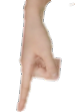
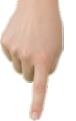
feat(rig-foto): manos de piel generadas con Gemini (relajada, abierta, puno, senalar)
Fotos de manos con el mismo tono del cuerpo (scripts/manos-generar.js), elegidas a ojo en
assets/kit/manos/. Se quita el fondo, se corta el antebrazo en la muneca y se escalan a la
manga. Sustituyen a las manos recortadas del cuerpo y a los guantes.

diff --git a/scripts/kit-foto-rig.js b/scripts/kit-foto-rig.js
@@ -72,61 +72,21 @@ async function cabeza() {
   return { cw, ch, pivoteY: NECK_Y * S / ch, chinY: CHIN_Y * S, neckY: NECK_Y * S, cara: { cx: 432 * S, cy: 408 * S, w: 610 * S, h: 663 * S } }; // caja de la cara medida sobre esta foto
 }
 let MUNECA = null, MANOS = {};
-// Manos como piezas aparte, de PIEL, sacadas de las mismas fotos del kit (mismo tono que el cuerpo): se aísla la piel (sin el puño rojo ni la manga), se tapan los
-// huecos que dejó el recorte, se gira para que la muñeca quede ARRIBA y los dedos abajo, y se escala a un tamaño común. La muñeca se esconde bajo el puño al armar el rig.
-const esPiel = (r, g, b, a) => { if (a < 128) return false; const mx = Math.max(r, g, b), mn = Math.min(r, g, b), sat = (mx - mn) / (mx || 1); return r > 150 && g > 100 && b > 70 && r >= g && g >= b * 0.95 && r - b > 18 && sat > 0.1 && sat < 0.5; };
-// fuente: { archivo, región, punto de la muñeca (en la foto), ángulo (grados: gira la mano para que apunte hacia abajo), recorte de antebrazo (px), alto final }
-async function mano({ arch, reg, wr, ang, saltar = 0, alto = 100 }) {
-  const img = await loadImage(fs.readFileSync(arch)), { id } = pixeles(img), d = id.data, W = img.width, H = img.height, { x0, y0, x1, y1 } = reg;
-  const dentro = (x, y) => x >= x0 && x <= x1 && y >= y0 && y <= y1;
-  const sk = new Uint8Array(W * H), re = new Uint8Array(W * H);
-  for (let y = y0; y <= y1; y++) for (let x = x0; x <= x1; x++) { const i = (y * W + x) * 4; if (esPiel(d[i], d[i + 1], d[i + 2], d[i + 3])) sk[y * W + x] = 1; }
-  // cierre morfológico: localiza los huecos del recorte dentro de la mano para rellenarlos con el tono de la piel de alrededor
-  const dil = (a, rad) => { const o = new Uint8Array(W * H); for (let y = y0; y <= y1; y++) for (let x = x0; x <= x1; x++) { let v = 0; for (let j = -rad; j <= rad && !v; j++) for (let i2 = -rad; i2 <= rad; i2++) { if (dentro(x + i2, y + j) && a[(y + j) * W + x + i2]) { v = 1; break; } } o[y * W + x] = v; } return o; };
-  const ero = (a, rad) => { const o = new Uint8Array(W * H); for (let y = y0; y <= y1; y++) for (let x = x0; x <= x1; x++) { let v = 1; for (let j = -rad; j <= rad && v; j++) for (let i2 = -rad; i2 <= rad; i2++) { if (!dentro(x + i2, y + j) || !a[(y + j) * W + x + i2]) { v = 0; break; } } o[y * W + x] = v; } return o; };
-  const cerrado = ero(dil(sk, 5), 5), col = new Float32Array(W * H * 3);
-  for (let y = y0; y <= y1; y++) for (let x = x0; x <= x1; x++) if (sk[y * W + x]) { const i = (y * W + x) * 4, o = (y * W + x) * 3; col[o] = d[i]; col[o + 1] = d[i + 1]; col[o + 2] = d[i + 2]; re[y * W + x] = 1; }
-  for (let pasada = 0; pasada < 4; pasada++) {
-    const nuevo = [];
-    for (let y = y0; y <= y1; y++) for (let x = x0; x <= x1; x++) if (cerrado[y * W + x] && !re[y * W + x]) {
-      let r = 0, g = 0, b = 0, n = 0;
-      for (let j = -3; j <= 3; j++) for (let i2 = -3; i2 <= 3; i2++) if (dentro(x + i2, y + j) && re[(y + j) * W + x + i2]) { const o = ((y + j) * W + x + i2) * 3; r += col[o]; g += col[o + 1]; b += col[o + 2]; n++; }
-      if (n) nuevo.push([x, y, r / n, g / n, b / n]);
-    }
-    for (const [x, y, r, g, b] of nuevo) { re[y * W + x] = 1; const o = (y * W + x) * 3; col[o] = r; col[o + 1] = g; col[o + 2] = b; }
-  }
-  const t = createCanvas(W, H), tx = t.getContext('2d'), td = tx.createImageData(W, H);
-  for (let y = y0; y <= y1; y++) for (let x = x0; x <= x1; x++) if (re[y * W + x]) { const i = (y * W + x) * 4, o = (y * W + x) * 3; td.data[i] = col[o]; td.data[i + 1] = col[o + 1]; td.data[i + 2] = col[o + 2]; td.data[i + 3] = 255; }
-  tx.putImageData(td, 0, 0);
-  const G = 420, r = createCanvas(G, G), rx = r.getContext('2d'); rx.translate(G / 2, -saltar); rx.rotate(ang * Math.PI / 180); rx.translate(-wr.x, -wr.y); rx.drawImage(t, 0, 0);
-  const dd = rx.getImageData(0, 0, G, G).data; let a0 = G, a1 = 0, b0 = G, b1 = 0;
-  for (let y = 0; y < G; y++) for (let x = 0; x < G; x++) if (dd[(y * G + x) * 4 + 3] > 40) { if (x < a0) a0 = x; if (x > a1) a1 = x; if (y < b0) b0 = y; if (y > b1) b1 = y; }
-  const k = alto / (b1 - b0 + 1); let m0 = G, m1 = 0;
-  for (let y = b0; y < b0 + 3; y++) for (let x = a0; x <= a1; x++) if (dd[(y * G + x) * 4 + 3] > 40) { if (x < m0) m0 = x; if (x > m1) m1 = x; }
-  const ax = ((m0 + m1) / 2 - a0) * k, w = (a1 - a0 + 1) * k, h = (b1 - b0 + 1) * k, W2 = Math.ceil(2 * Math.max(ax, w - ax)), c = createCanvas(W2, Math.ceil(h)), cx = c.getContext('2d');
-  cx.drawImage(r, a0, b0, a1 - a0 + 1, b1 - b0 + 1, W2 / 2 - ax, 0, w, h);
-  return { c, w: W2, h: Math.ceil(h), muneca: (m1 - m0) * k };
-}
+// Manos como piezas aparte, de PIEL: fotos generadas con scripts/manos-generar.js (elegidas a ojo, en assets/kit/manos/), con la muñeca arriba y los dedos abajo.
+// Se quita el fondo verde, se corta el antebrazo sobrante a la altura de la muñeca (corte recto: queda escondido bajo el puño del uniforme) y se escala para que
+// la muñeca mida lo mismo que la manga del brazo.
+const { quitarFondo } = require('../lienzo/recorte');
+const MANOS_FOTO = { // corte = fracción de la altura (de la foto ya sin fondo) donde se corta el antebrazo, desde arriba
+  relajada: { corte: 0.34, muneca: 40 }, abierta: { corte: 0.33, muneca: 40 }, puno: { corte: 0.38, muneca: 40 }, senalar: { corte: 0.30, muneca: 40 },
+};
 async function manos(arm) {
-  const kit = n => path.join(KIT, n + '.png');
-  const fuentes = {
-    relajada: { arch: kit('cuerpo-bastonera'), reg: { x0: 0, y0: 394, x1: 98, y1: 478 }, wr: { x: 70, y: 397 }, ang: -47, alto: 96 },                       // mano en reposo (la del cuerpo base)
-    abierto: { arch: kit('cuerpo-bastonera-celebrar'), reg: { x0: 0, y0: 0, x1: 118, y1: 90 }, wr: { x: 100, y: 82 }, ang: -130, saltar: 28, alto: 104 },  // mano abierta, dedos separados
-    senalar: { arch: kit('cuerpo-bastonera-senalar'), reg: { x0: 0, y0: 38, x1: 119, y1: 100 }, wr: { x: 117, y: 60 }, ang: -84, saltar: 0, alto: 112 },    // mano señalando
-  };
-  for (const [nombre, f] of Object.entries(fuentes)) { const a = await mano(f); guardar(a.c, 'mano-' + nombre); MANOS[nombre] = { w: a.w, h: a.h, ax: a.w / 2 }; console.log('mano', nombre, a.w + 'x' + a.h, 'muneca', a.muneca.toFixed(0)); }
-  // puño: foto del kit (data-motor/kit/png/mano-puno.png), antebrazo hacia abajo; se gira 180° (muñeca arriba) y se iguala el tono al de las otras manos
-  {
-    const img = await loadImage(fs.readFileSync(path.join(__dirname, '..', 'data-motor', 'kit', 'png', 'mano-puno.png'))), W = img.width, H = Math.round(img.height * 0.62), t = createCanvas(W, H), tx = t.getContext('2d');
-    tx.translate(W / 2, H / 2); tx.rotate(Math.PI); tx.drawImage(img, 0, 0, W, H, -W / 2, -H / 2, W, H); // se descarta el borde roto de abajo; el antebrazo queda arriba
-    const k = 100 / H, w = W * k, h = H * k, W2 = Math.ceil(w), c = createCanvas(W2, Math.ceil(h)), cx = c.getContext('2d'); cx.drawImage(t, 0, 0, W, H, 0, 0, w, h);
-    const ref = await loadImage(path.join(SAL, 'mano-senalar.png')), rc = createCanvas(ref.width, ref.height), rcx = rc.getContext('2d'); rcx.drawImage(ref, 0, 0);
-    const rd = rcx.getImageData(0, 0, ref.width, ref.height).data, md = { r: 0, g: 0, b: 0, n: 0 }, pd = cx.getImageData(0, 0, W2, Math.ceil(h)), pp = pd.data, mp = { r: 0, g: 0, b: 0, n: 0 };
-    for (let i = 0; i < rd.length; i += 4) if (rd[i + 3] > 200) { md.r += rd[i]; md.g += rd[i + 1]; md.b += rd[i + 2]; md.n++; }
-    for (let i = 0; i < pp.length; i += 4) if (pp[i + 3] > 200) { mp.r += pp[i]; mp.g += pp[i + 1]; mp.b += pp[i + 2]; mp.n++; }
-    const gr = (md.r / md.n) / (mp.r / mp.n), gg = (md.g / md.n) / (mp.g / mp.n), gb = (md.b / md.n) / (mp.b / mp.n);
-    for (let i = 0; i < pp.length; i += 4) { pp[i] = Math.min(255, pp[i] * gr); pp[i + 1] = Math.min(255, pp[i + 1] * gg); pp[i + 2] = Math.min(255, pp[i + 2] * gb); }
-    cx.putImageData(pd, 0, 0); guardar(c, 'mano-puno'); MANOS.puno = { w: W2, h: Math.ceil(h), ax: W2 / 2 };
+  for (const [nombre, o] of Object.entries(MANOS_FOTO)) {
+    const c0 = await quitarFondo(path.join(KIT, 'manos', nombre + '.png'), { tol: 40, suave: 30, margen: 2, matiz: 28, sat: 0.18 }), W = c0.width, H = c0.height, y0 = Math.round(H * o.corte);
+    const d0 = c0.getContext('2d').getImageData(0, y0, W, 4).data; let m0 = W, m1 = 0;
+    for (let y = 0; y < 4; y++) for (let x = 0; x < W; x++) if (d0[(y * W + x) * 4 + 3] > 40) { if (x < m0) m0 = x; if (x > m1) m1 = x; }
+    const k = o.muneca / Math.max(8, m1 - m0), cx0 = (m0 + m1) / 2, ax = cx0 * k, w = W * k, h = (H - y0) * k, W2 = Math.ceil(2 * Math.max(ax, w - ax)), c = createCanvas(W2, Math.ceil(h)), cx = c.getContext('2d');
+    cx.imageSmoothingQuality = 'high'; cx.drawImage(c0, 0, y0, W, H - y0, W2 / 2 - ax, 0, w, h); guardar(c, 'mano-' + nombre); MANOS[nombre] = { w: W2, h: Math.ceil(h), ax: W2 / 2 };
+    console.log('mano', nombre, W2 + 'x' + Math.ceil(h));
   }
   // centro de la manga en la muñeca (en el lienzo del brazo)
   const bcv = await loadImage(path.join(SAL, 'brazo-abierto.png')), t = createCanvas(bcv.width, bcv.height), tx = t.getContext('2d'); tx.drawImage(bcv, 0, 0); const row = bcv.height - 6, bd = tx.getImageData(0, row, bcv.width, 1).data; let a0 = 1e9, a1 = -1; for (let x = 0; x < bcv.width; x++) if (bd[x * 4 + 3] > 200) { if (x < a0) a0 = x; if (x > a1) a1 = x; }

diff --git a/scripts/manos-generar.js b/scripts/manos-generar.js
@@ -1,0 +1,26 @@
+// Genera con Gemini manos de PIEL para el rig de fotos (misma piel que el cuerpo del kit): una mano por imagen, con la muñeca arriba cortada en horizontal
+// y los dedos hacia abajo, sobre fondo verde liso. Se revisan a ojo y luego scripts/kit-foto-rig.js las recorta y las arma.
+// Uso: node scripts/manos-generar.js [pose ...] [--n 2]   (poses: relajada abierta puno senalar)
+require('dotenv').config();
+const fs = require('fs'), path = require('path');
+const arg = (n, d) => { const i = process.argv.indexOf(n); return i >= 0 ? process.argv[i + 1] : d; };
+const N = Number(arg('--n', 2)), SALIDA = path.join(__dirname, '..', 'data-motor', 'kit', 'manos-crudo'), REF = path.join(__dirname, '..', 'assets', 'kit', 'cuerpo-bastonera-senalar.png');
+const BASE = 'Photograph of a single realistic adult female hand, the same skin tone as the reference image (light warm beige), natural unretouched skin with subtle knuckle creases and clean short natural nails. ONLY the hand and about 2 cm of wrist: the wrist is at the very TOP edge of the image and ends in a clean straight horizontal cut, no sleeve, no cuff, no jewelry, no watch. The fingers point straight DOWN in the image. The hand is perfectly sharp and fully inside the frame with space around it, evenly lit from the front, no cast shadows. Background: plain pure bright green (#00FF00) chroma-key, no text, no watermark.';
+const POSES = {
+  relajada: 'Relaxed hand, fingers together and slightly curled, thumb resting against the side, back of the hand facing the viewer.',
+  abierta: 'Open hand with all five fingers gently spread apart, palm facing the viewer.',
+  puno: 'Closed fist, back of the hand facing the viewer, thumb wrapped over the fingers.',
+  senalar: 'Pointing gesture: the index finger extended straight, the other three fingers curled into the palm, thumb tucked, back of the hand facing the viewer.',
+};
+async function una(pose, k) {
+  const partes = [{ inlineData: { mimeType: 'image/png', data: fs.readFileSync(REF).toString('base64') } }, { text: `${POSES[pose]} ${BASE}` }];
+  const cuerpo = { contents: [{ parts: partes }], generationConfig: { responseModalities: ['IMAGE'], imageConfig: { aspectRatio: '3:4' } } };
+  const r = await fetch(`https://generativelanguage.googleapis.com/v1beta/models/gemini-2.5-flash-image:generateContent?key=${process.env.GEMINI_API_KEY}`, { method: 'POST', headers: { 'Content-Type': 'application/json' }, body: JSON.stringify(cuerpo) });
+  const j = await r.json(), parte = (j.candidates?.[0]?.content?.parts || []).find(p => p.inlineData);
+  if (!parte) { console.log(pose, k, 'SIN IMAGEN', JSON.stringify(j).slice(0, 200)); return; }
+  fs.mkdirSync(SALIDA, { recursive: true }); fs.writeFileSync(path.join(SALIDA, `${pose}-${k}.png`), Buffer.from(parte.inlineData.data, 'base64')); console.log(pose, k, 'ok');
+}
+(async () => {
+  const pedidas = process.argv.slice(2).filter(a => POSES[a]), poses = pedidas.length ? pedidas : Object.keys(POSES);
+  await Promise.all(poses.flatMap(p => Array.from({ length: N }, (_, k) => una(p, k + 1).catch(e => console.log(p, k + 1, 'FALLO', e.message)))));
+})();

diff --git a/lienzo/titere-rig.js b/lienzo/titere-rig.js
@@ -31,7 +31,7 @@ const TRAJES_RIG = {
 // (el cuello queda detrás del cuello alto del uniforme) y la cara es la de la foto (sin expresiones dibujadas).
 const RIG_FOTO = path.join(__dirname, '..', 'assets', 'foto-rig');
 try { const m = JSON.parse(fs.readFileSync(path.join(RIG_FOTO, 'rig.json'), 'utf8')), pv = m.cabeza.pivoteY;
-  TRAJES_RIG['bastonera-foto'] = { dir: RIG_FOTO, piezas: ['cabeza', 'pelo', 'torso', 'hombros', 'brazo-abierto', 'piernas', 'mano-relajada', 'mano-abierto', 'mano-puno', 'mano-senalar'], torso: 'torso', falda: null, brazos: ['brazo-abierto', 'brazo-abierto'], piernas: true, piernasJuntas: true, cabezaAntes: true,
+  TRAJES_RIG['bastonera-foto'] = { dir: RIG_FOTO, piezas: ['cabeza', 'pelo', 'torso', 'hombros', 'brazo-abierto', 'piernas', 'mano-relajada', 'mano-abierta', 'mano-puno', 'mano-senalar'], torso: 'torso', falda: null, brazos: ['brazo-abierto', 'brazo-abierto'], piernas: true, piernasJuntas: true, cabezaAntes: true,
     cabeza: { x: 0, y: 26, px: 0.5, py: pv }, pelo: { x: 0, y: 26, px: 0.5, py: pv }, torsoPiv: { px: 0.5, py: 0 }, hombro: { x: m.CX - m.EJE_BRAZO, y: m.Y_HOMBRO + m.PIV_Y }, cadera: { x: 0, y: m.Y_CADERA - 2 }, pies: m.cuerpo.H, alto: m.cuerpo.H + m.cabeza.neckY + 4, long: m.largo, brazoPivY: m.PIV_Y, codoFrac: m.codoFrac, codoDuro: true, hombros: true, manoFotos: m.manos, muneca: m.muneca, caraFoto: m.cabeza.cara };
   } catch { /* sin piezas de foto: el traje no existe */ }
 const ANCLAS_FOTO = { ojoY: 0.01, ojoDx: 0.17, ojoR: 0.058, bocaY: 0.33, bocaAncho: 0.118, cejaY: -0.075 }; // medidas sobre la foto de la cabeza ficticia (misma que usa recortes.muneco)
@@ -148,7 +148,7 @@ function titereRig({ traje = 'bastonera', cx = 0.5, base = 0.9, alto = 0.5, esca
           ctx.save(); ctx.beginPath(); ctx.rect(0, 0, wB, cod + 2); ctx.clip(); ctx.drawImage(im, 0, 0); ctx.restore(); // brazo superior (con todo el hombro)
           ctx.save(); ctx.translate(wB / 2, cod); ctx.rotate(-c * GRAD); ctx.translate(-wB / 2, -cod);
           if (R.manoFotos) { // la mano es una pieza aparte: queda DETRÁS de la manga (la muñeca se esconde bajo el puño del uniforme) y gira en la muñeca
-            const nm = R.manoFotos[mano] ? mano : 'relajada', mi = img['mano-' + nm], mf = R.manoFotos[nm];
+            const nm = R.manoFotos[mano] ? mano : mano === 'abierto' ? 'abierta' : 'relajada', mi = img['mano-' + nm], mf = R.manoFotos[nm];
             ctx.save(); ctx.translate(R.muneca.x, R.muneca.y - 10); ctx.rotate(mun * GRAD); ctx.drawImage(mi, -mf.ax, 0); ctx.restore(); }
           ctx.save(); ctx.beginPath(); ctx.rect(0, cod - 2, wB, hB - cod + 4); ctx.clip(); ctx.drawImage(im, 0, 0); ctx.restore(); ctx.restore(); // antebrazo (manga) por delante de la mano
           B.sinSombra(ctx); ctx.restore(); return;
